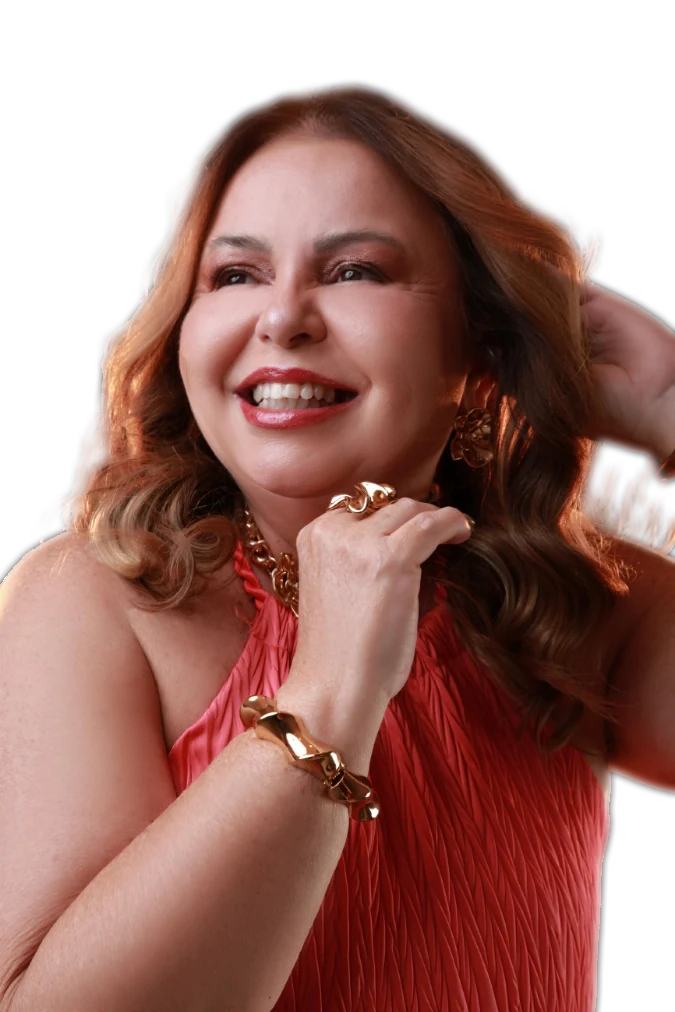
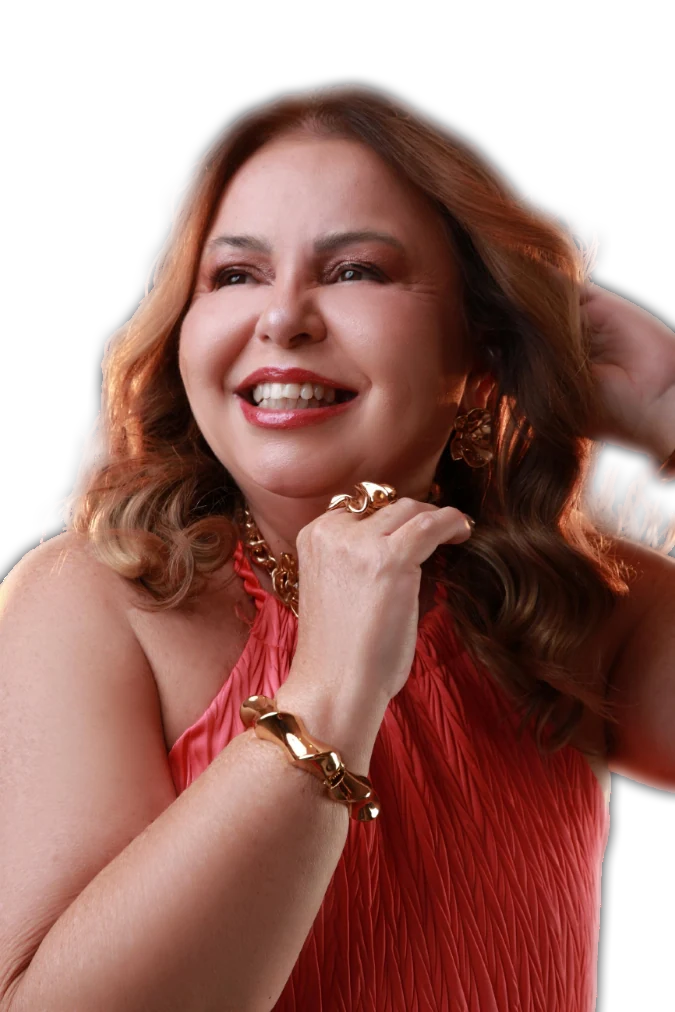
feat(sobre/faq): card de relevo atras do recorte, topo vazando, vinheta lateral e alfa mais macio (photo4 v3)

diff --git a/src/app/components/about/about.css b/src/app/components/about/about.css
@@ -12,11 +12,37 @@
   pointer-events: none;
 }
 
+/* Card atrás da foto: painel com relevo que sustenta o recorte (o topo da figura vaza para cima) */
+.about-photo__card {
+  position: absolute;
+  left: 50%;
+  bottom: 0;
+  width: min(400px, 84%);
+  height: 58%;
+  transform: translateX(-50%);
+  border-radius: 1.75rem;
+  background: linear-gradient(180deg, rgb(48 37 25 / 0.94) 0%, rgb(34 26 17 / 0.97) 55%, rgb(24 19 12 / 0.99) 100%);
+  border: 1px solid rgb(201 147 58 / 0.16);
+  box-shadow:
+    inset 0 1px 0 rgb(255 235 190 / 0.12),
+    inset 0 -1px 0 rgb(0 0 0 / 0.45),
+    0 26px 54px -22px rgb(0 0 0 / 0.6);
+}
+
 .about-photo__img {
-  /* A silhueta já vem com borda macia no arquivo; aqui só esfumacamos a base */
-  filter: blur(0.3px);
+  /* A silhueta já vem com borda macia no arquivo; aqui só esfumacamos a base.
+     drop-shadow segue o contorno macio e dá o relevo da figura sobre o card. */
+  filter: blur(0.3px) drop-shadow(0 22px 26px rgb(8 6 3 / 0.5));
   -webkit-mask-image: linear-gradient(to bottom, #000 0%, #000 55%, transparent 92%);
   mask-image: linear-gradient(to bottom, #000 0%, #000 55%, transparent 92%);
+}
+
+/* Vinheta lateral: afoga suavemente as laterais (onde o recorte é "seco") no fundo */
+.about-photo__vignette {
+  position: absolute;
+  inset: 0;
+  background: radial-gradient(120% 105% at 50% 42%, transparent 56%, rgb(13 10 6 / 0.34) 100%);
+  pointer-events: none;
 }
 
 .about-photo__blur {

diff --git a/src/app/components/faq/faq.css b/src/app/components/faq/faq.css
@@ -16,11 +16,37 @@
   pointer-events: none;
 }
 
+/* Card atrás da foto: painel com relevo que sustenta o recorte (o topo da figura vaza para cima) */
+.faq-photo__card {
+  position: absolute;
+  left: 50%;
+  bottom: 0;
+  width: min(330px, 84%);
+  height: 58%;
+  transform: translateX(-50%);
+  border-radius: 1.75rem;
+  background: linear-gradient(180deg, rgb(48 37 25 / 0.94) 0%, rgb(34 26 17 / 0.97) 55%, rgb(24 19 12 / 0.99) 100%);
+  border: 1px solid rgb(201 147 58 / 0.16);
+  box-shadow:
+    inset 0 1px 0 rgb(255 235 190 / 0.12),
+    inset 0 -1px 0 rgb(0 0 0 / 0.45),
+    0 26px 54px -22px rgb(0 0 0 / 0.6);
+}
+
 .faq-photo__img {
-  /* A silhueta já vem com borda macia no arquivo; aqui só esfumacamos a base */
-  filter: blur(0.3px);
+  /* A silhueta já vem com borda macia no arquivo; aqui só esfumacamos a base.
+     drop-shadow segue o contorno macio e dá o relevo da figura sobre o card. */
+  filter: blur(0.3px) drop-shadow(0 18px 22px rgb(8 6 3 / 0.5));
   -webkit-mask-image: linear-gradient(to bottom, #000 0%, #000 55%, transparent 92%);
   mask-image: linear-gradient(to bottom, #000 0%, #000 55%, transparent 92%);
+}
+
+/* Vinheta lateral: afoga suavemente as laterais (onde o recorte é "seco") no fundo */
+.faq-photo__vignette {
+  position: absolute;
+  inset: 0;
+  background: radial-gradient(120% 105% at 50% 42%, transparent 56%, rgb(13 10 6 / 0.34) 100%);
+  pointer-events: none;
 }
 
 .faq-photo__blur {

diff --git a/src/app/components/faq/faq.html b/src/app/components/faq/faq.html
@@ -3,6 +3,7 @@
     <!-- Foto no mesmo tratamento da seção "Sobre": brilho, base esfumaçada e camada de partículas -->
     <div appFadeIn class="faq-photo relative h-[280px] md:h-[380px] -mb-16 md:-mb-24">
       <div aria-hidden="true" class="faq-photo__glow"></div>
+      <div aria-hidden="true" class="faq-photo__card"></div>
       <img
         src="photos/photo3_withoutBG.webp?v=2"
         alt="Dra. Anne Valéria, médica pneumologista"
@@ -12,6 +13,7 @@
         decoding="async"
         class="faq-photo__img absolute inset-0 w-full h-full object-contain object-bottom"
       />
+      <div aria-hidden="true" class="faq-photo__vignette"></div>
       <div aria-hidden="true" class="faq-photo__blur"></div>
       <app-particle-field></app-particle-field>
     </div>

diff --git a/src/app/components/about/about.html b/src/app/components/about/about.html
@@ -2,12 +2,14 @@
   <div class="max-w-3xl mx-auto">
     <div appFadeIn class="about-photo relative h-[420px] md:h-[560px] -mb-24 md:-mb-32">
       <div aria-hidden="true" class="about-photo__glow"></div>
+      <div aria-hidden="true" class="about-photo__card"></div>
       <img
-        src="photos/photo4_withoutBG.webp?v=2"
+        src="photos/photo4_withoutBG.webp?v=3"
         alt="Dra. Anne Valéria — retrato informal"
         class="about-photo__img absolute inset-0 w-full h-full object-contain object-bottom"
         loading="lazy"
       />
+      <div aria-hidden="true" class="about-photo__vignette"></div>
       <div aria-hidden="true" class="about-photo__blur"></div>
     </div>
 
